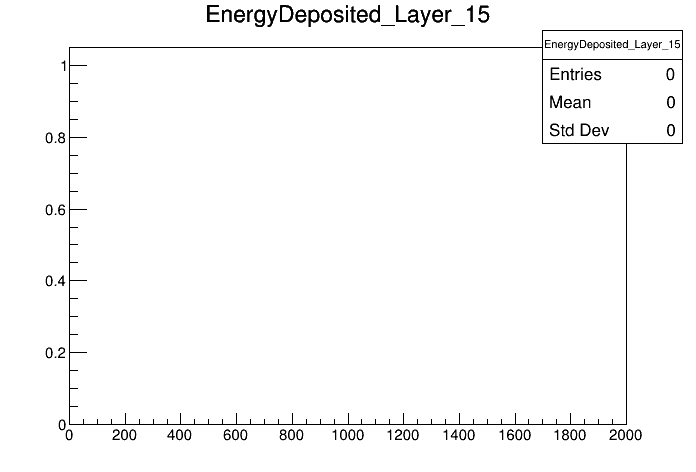
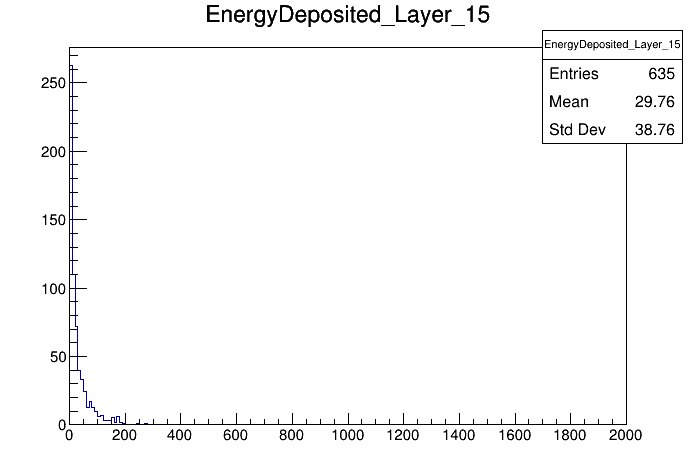
played around a bit

diff --git a/EngReco.py b/EngReco.py
@@ -8,7 +8,7 @@ import time
 
 ROOT.gROOT.SetBatch(ROOT.kTRUE)
 ROOT.gStyle.SetOptFit(1110)
-energy = 50
+energy = 90
 
 if len(sys.argv) > 1:
     energy = int(sys.argv[1])
@@ -16,16 +16,21 @@ if len(sys.argv) > 1:
 
 
 
-F_Input_Name = "/home/rsaradhy/Work/Output/TransitionH_L/New_Data/Oct_NTuple/Electron/"+str(energy)+"GeV.root"
+# F_Input_Name = "/home/rsaradhy/Work/Output/TransitionH_L/New_Data/Oct_NTuple/Electron/"+str(energy)+"GeV.root"
+F_Input_Name = "/home/rsaradhy/Work/Output/TransitionH_L/Data/data_27_3_2018/H2/Electron/"+str(energy)+"GeV.root"
 print "Opening File: " + F_Input_Name
 F_Input = ROOT.TFile(F_Input_Name)
 Tree_Input = F_Input.Get("pulseshapeplotter/T")#
 
 
 # for ADCtoMIPs ...
-f=open("Oct_H2_TS3_HG_LG_Datbase.txt")
+# f=open("Oct_H2_PFA_HG_LG_Datbase.txt")
+# f=open("Oct_H2_TS3_HG_LG_Datbase.txt")
+f=open("Oct_H2_TS3_CM_HG_LG_Datbase.txt")
 lines=f.readlines()
-f2=open("Oct_H2_TS3_LG_TOT_Datbase.txt")
+# f2=open("Oct_H2_PFA_LG_TOT_Datbase.txt")
+# f2=open("Oct_H2_TS3_LG_TOT_Datbase.txt")
+f2=open("Oct_H2_TS3_CM_LG_TOT_Datbase.txt")
 lines2=f2.readlines()
 # print ADCtoMIPS(0,0,2700,2500,376,lines,lines2)
 '''
@@ -66,7 +71,7 @@ EnergyDeposited_LayerHist = []
 Canvas = []
 histogram_name = "EnergyDeposited_Layer_"
 name = "Energy All Layers for Energy " + str(energy) + " GeV"
-Total_Energy_Hist = ROOT.TH1F(name,name,100,0,2500)
+Total_Energy_Hist = ROOT.TH1F(name,name,120,0,2500)
 for iii in range(0,17):
     name = histogram_name + str(iii)
     Histogram = ROOT.TH1F(name, name, 200, 0, 2000)
@@ -113,9 +118,14 @@ for event in Tree_Input:
                 EnergySUM_FH_Layers += MIP
 
     if (EnergySUM_EE_Layers >0):
-        if (EnergySUM_EE_Layers/(EnergySUM_EE_Layers+EnergySUM_FH_Layers) > 0.98): # Pion veto...
+        if (EnergySUM_EE_Layers/(EnergySUM_EE_Layers+EnergySUM_FH_Layers) > 0.94): # Pion veto...
             if totalSum > 50:
-                Total_Energy_Hist.Fill(totalSum)
+                if energy > 79:
+                    if(totalSum > 500):
+                        Total_Energy_Hist.Fill(totalSum)
+                else:
+                    Total_Energy_Hist.Fill(totalSum)
+
             for i in range(0,17):
                 if sumLayer[i]>0 :
                     EnergyDeposited_LayerHist[i].Fill(sumLayer[i])
@@ -134,31 +144,35 @@ selected_FitRangeMax = 0
 # Try till the most probable value...
 # MPV = Total_Energy_Hist.GetBinLowEdge(Total_Energy_Hist.GetMaximumBin())
 
-increment =50
-width =200
-NDF = {20:16, 32: 20,50:30,80:30,90:30} #Can be optimised dictionary {key:value}
-for upperRange in range(100,2500,increment):
-    for lowerRange in range(150,upperRange,increment):
-        Total_Energy_Hist.Fit("gaus","QM","",lowerRange,upperRange) #,"QM",1000,2250)
-        if Total_Energy_Hist.GetFunction("gaus").GetNDF() ==0 or Total_Energy_Hist.GetFunction("gaus").GetNDF() < NDF[energy]:
-            continue
-        Chi =(Total_Energy_Hist.GetFunction("gaus").GetChisquare()/Total_Energy_Hist.GetFunction("gaus").GetNDF())
-        value = abs( Chi- 1 )
-        # print str(upperRange)+"\t"+ str(lowerRange) +"\t"+ str(Chi)+"\t"+ str(value) + "\t" + str(Total_Energy_Hist.GetFunction("gaus").GetNDF())
-        if value < mini:
-            mini = value
-            selected_FitRangeMin = lowerRange
-            selected_FitRangeMax = upperRange
+# increment =50
+# width =200
+# NDF = {20:16, 32: 20,50:30,80:30,90:30} #Can be optimised dictionary {key:value}
+# for upperRange in range(100,2500,increment):
+#     for lowerRange in range(150,upperRange,increment):
+#         Total_Energy_Hist.Fit("gaus","QM","",lowerRange,upperRange) #,"QM",1000,2250)
+#         if Total_Energy_Hist.GetFunction("gaus").GetNDF() ==0 or Total_Energy_Hist.GetFunction("gaus").GetNDF() < NDF[energy]:
+#             continue
+#         Chi =(Total_Energy_Hist.GetFunction("gaus").GetChisquare()/Total_Energy_Hist.GetFunction("gaus").GetNDF())
+#         value = abs( Chi- 1 )
+#         # print str(upperRange)+"\t"+ str(lowerRange) +"\t"+ str(Chi)+"\t"+ str(value) + "\t" + str(Total_Energy_Hist.GetFunction("gaus").GetNDF())
+#         if value < mini:
+#             mini = value
+#             selected_FitRangeMin = lowerRange
+#             selected_FitRangeMax = upperRange
+#
+#
+# print "Selected Lower Fit Range is " +str(selected_FitRangeMin)+"\t"+ str(selected_FitRangeMax) + " and correspoding closeness is " + str(mini)
 
+MPV = Total_Energy_Hist.GetBinLowEdge(Total_Energy_Hist.GetMaximumBin())+ Total_Energy_Hist.GetBinWidth(Total_Energy_Hist.GetMaximumBin())/2
 
-print "Selected Lower Fit Range is " +str(selected_FitRangeMin)+"\t"+ str(selected_FitRangeMax) + " and correspoding closeness is " + str(mini)
+# Fit = Total_Energy_Hist.Fit("gaus","QSM","",selected_FitRangeMin,selected_FitRangeMax) #,"QM",1000,2250)
+Fit = Total_Energy_Hist.Fit("gaus","QSM","",MPV-200,MPV + 200) #,"QM",1000,2250)
 
-Fit = Total_Energy_Hist.Fit("gaus","QSM","",selected_FitRangeMin,selected_FitRangeMax) #,"QM",1000,2250)
 GausMean = Fit.Parameter(1)
 GausMeanErr = Fit.ParError(1)
 GausSig = Fit.Parameter(2)
 GausSigErr = Fit.ParError(2)
-MPV = Total_Energy_Hist.GetBinLowEdge(Total_Energy_Hist.GetMaximumBin())
+
 print str(GausMean) + "\t" + str(GausSig)+ "\t" + str(MPV)
 filename = "OutputForLinearPlot.txt"
 file = open(filename,'a')

diff --git a/plotLP.py b/plotLP.py
@@ -31,7 +31,7 @@ for line in lines:
 
 Canvas1 = ROOT.TCanvas("LinearGraph","LinearGraph",1366,768)
 Canvas1.cd()
-LGrp = ROOT.TGraphErrors(int(len(eng)),eng,mean,engErr,meanErr)
+LGrp = ROOT.TGraphErrors(int(len(eng)),eng,mean,engErr,sig)
 LGrp.SetTitle("")
 LGrp.GetXaxis().SetTitle("Beam Energy (GeV)");
 LGrp.GetXaxis().SetLabelFont(62);
